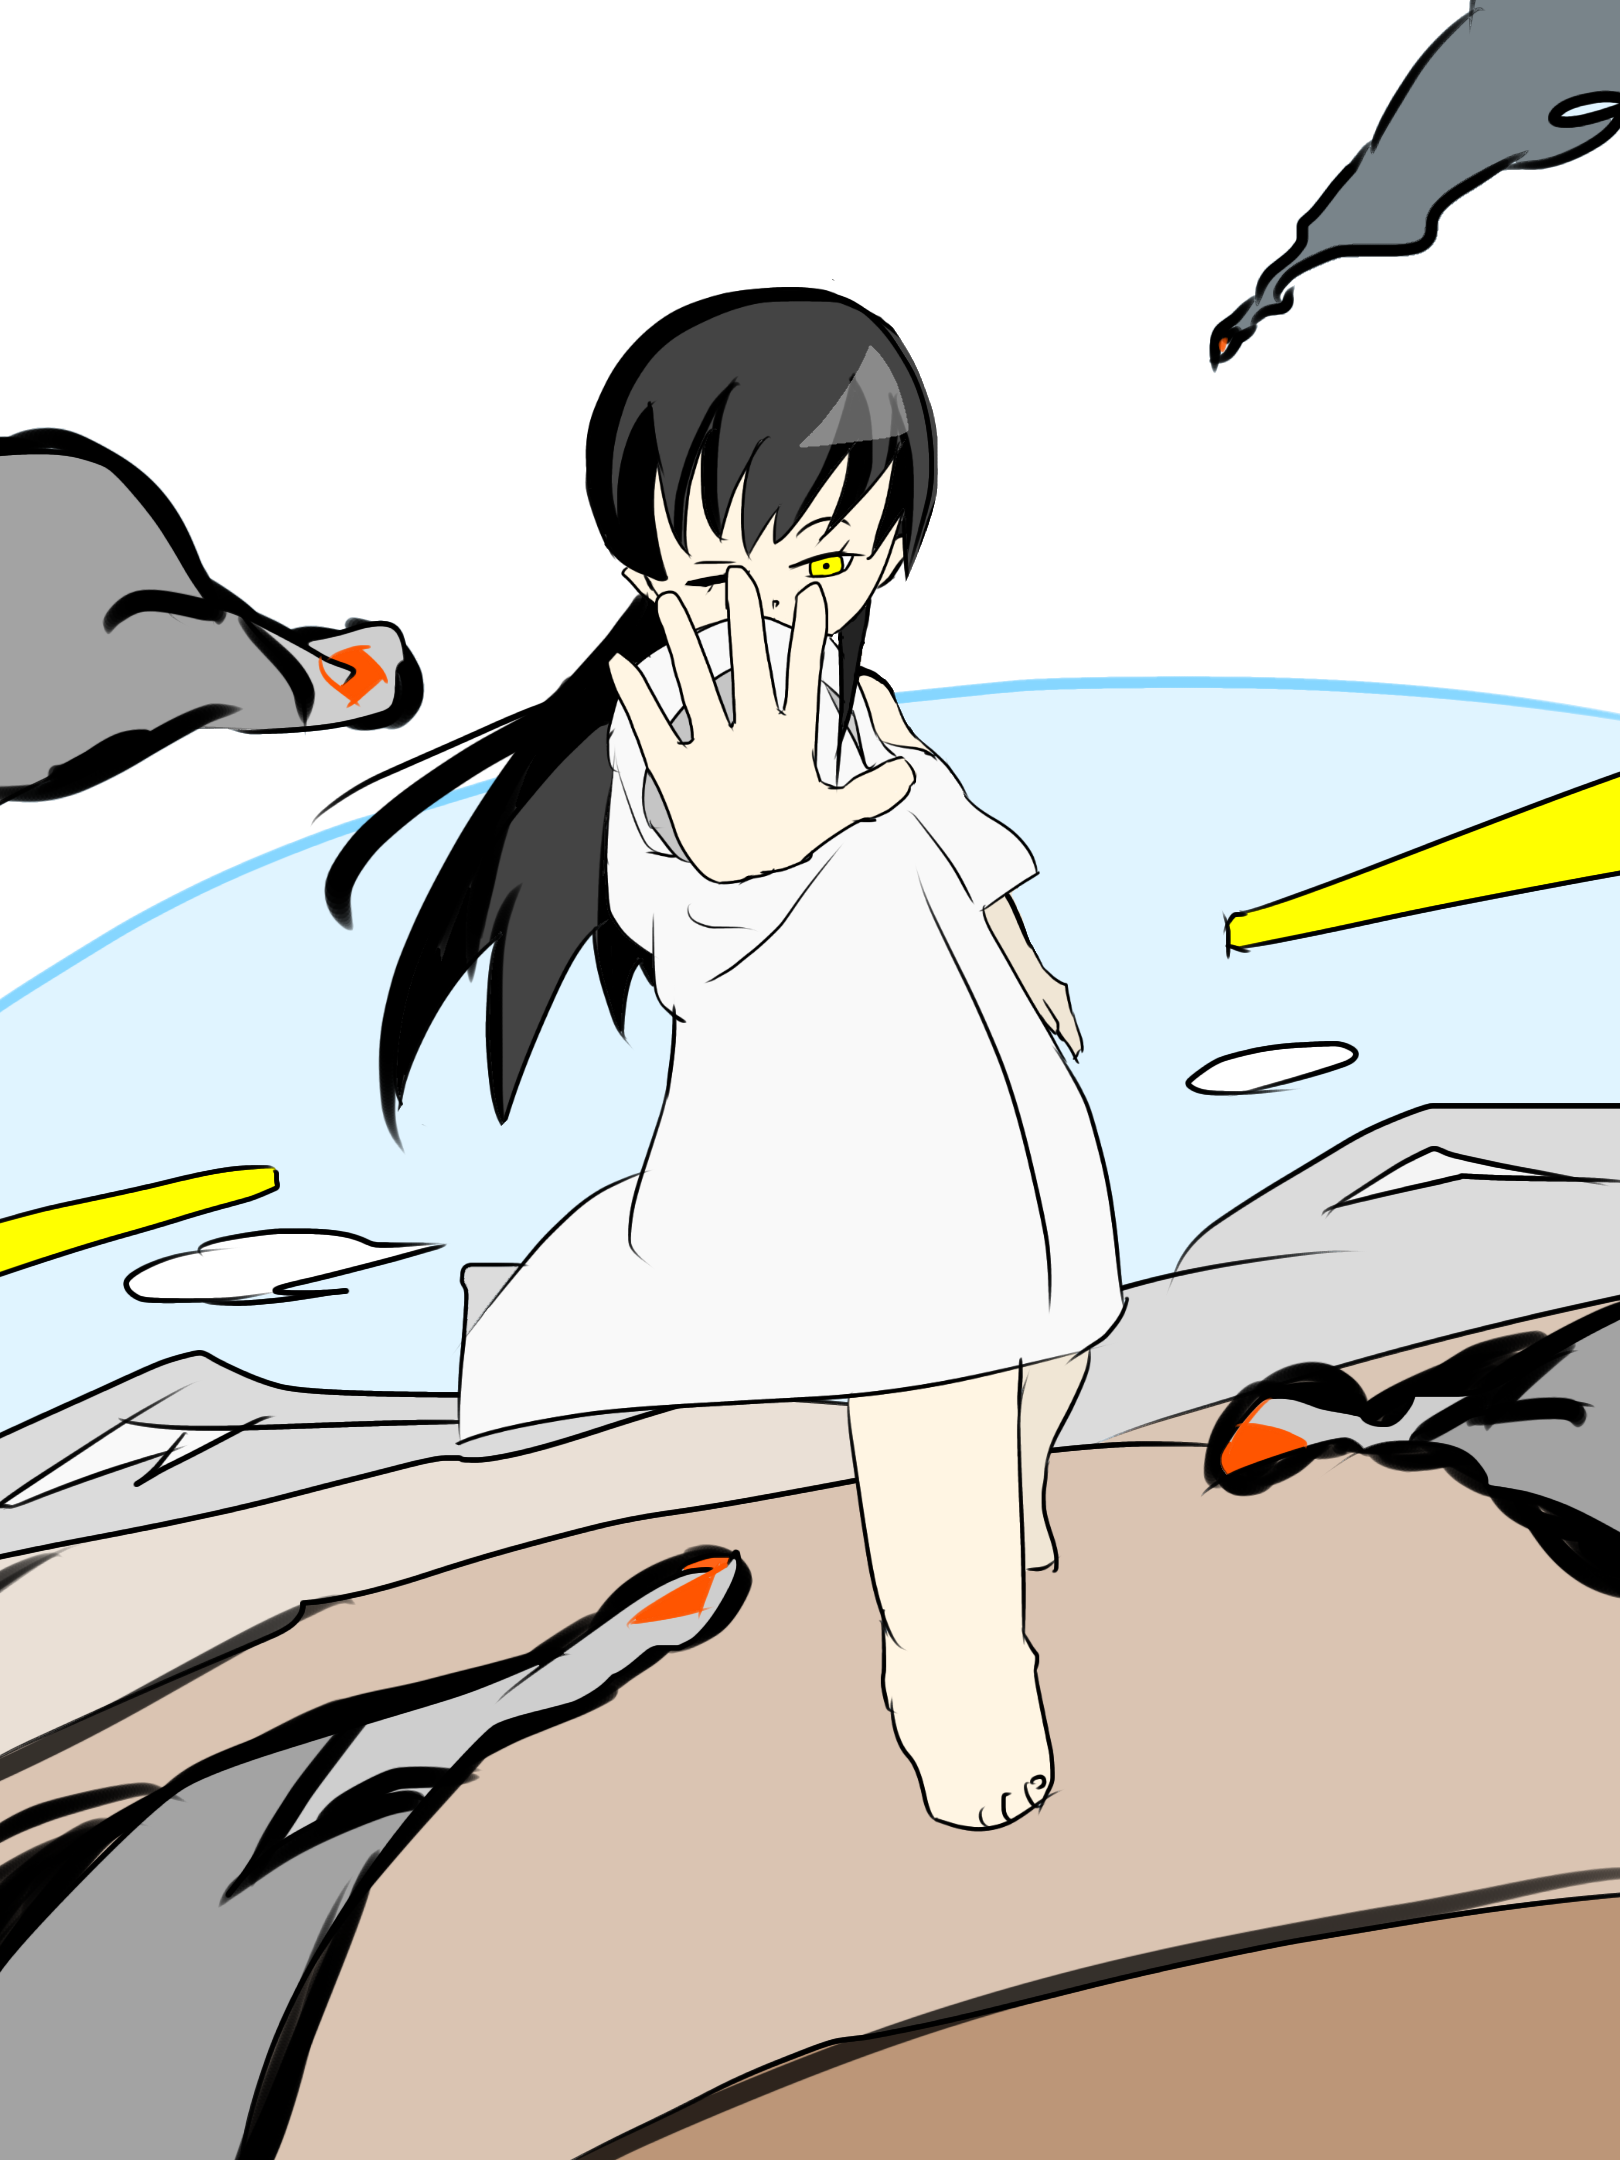
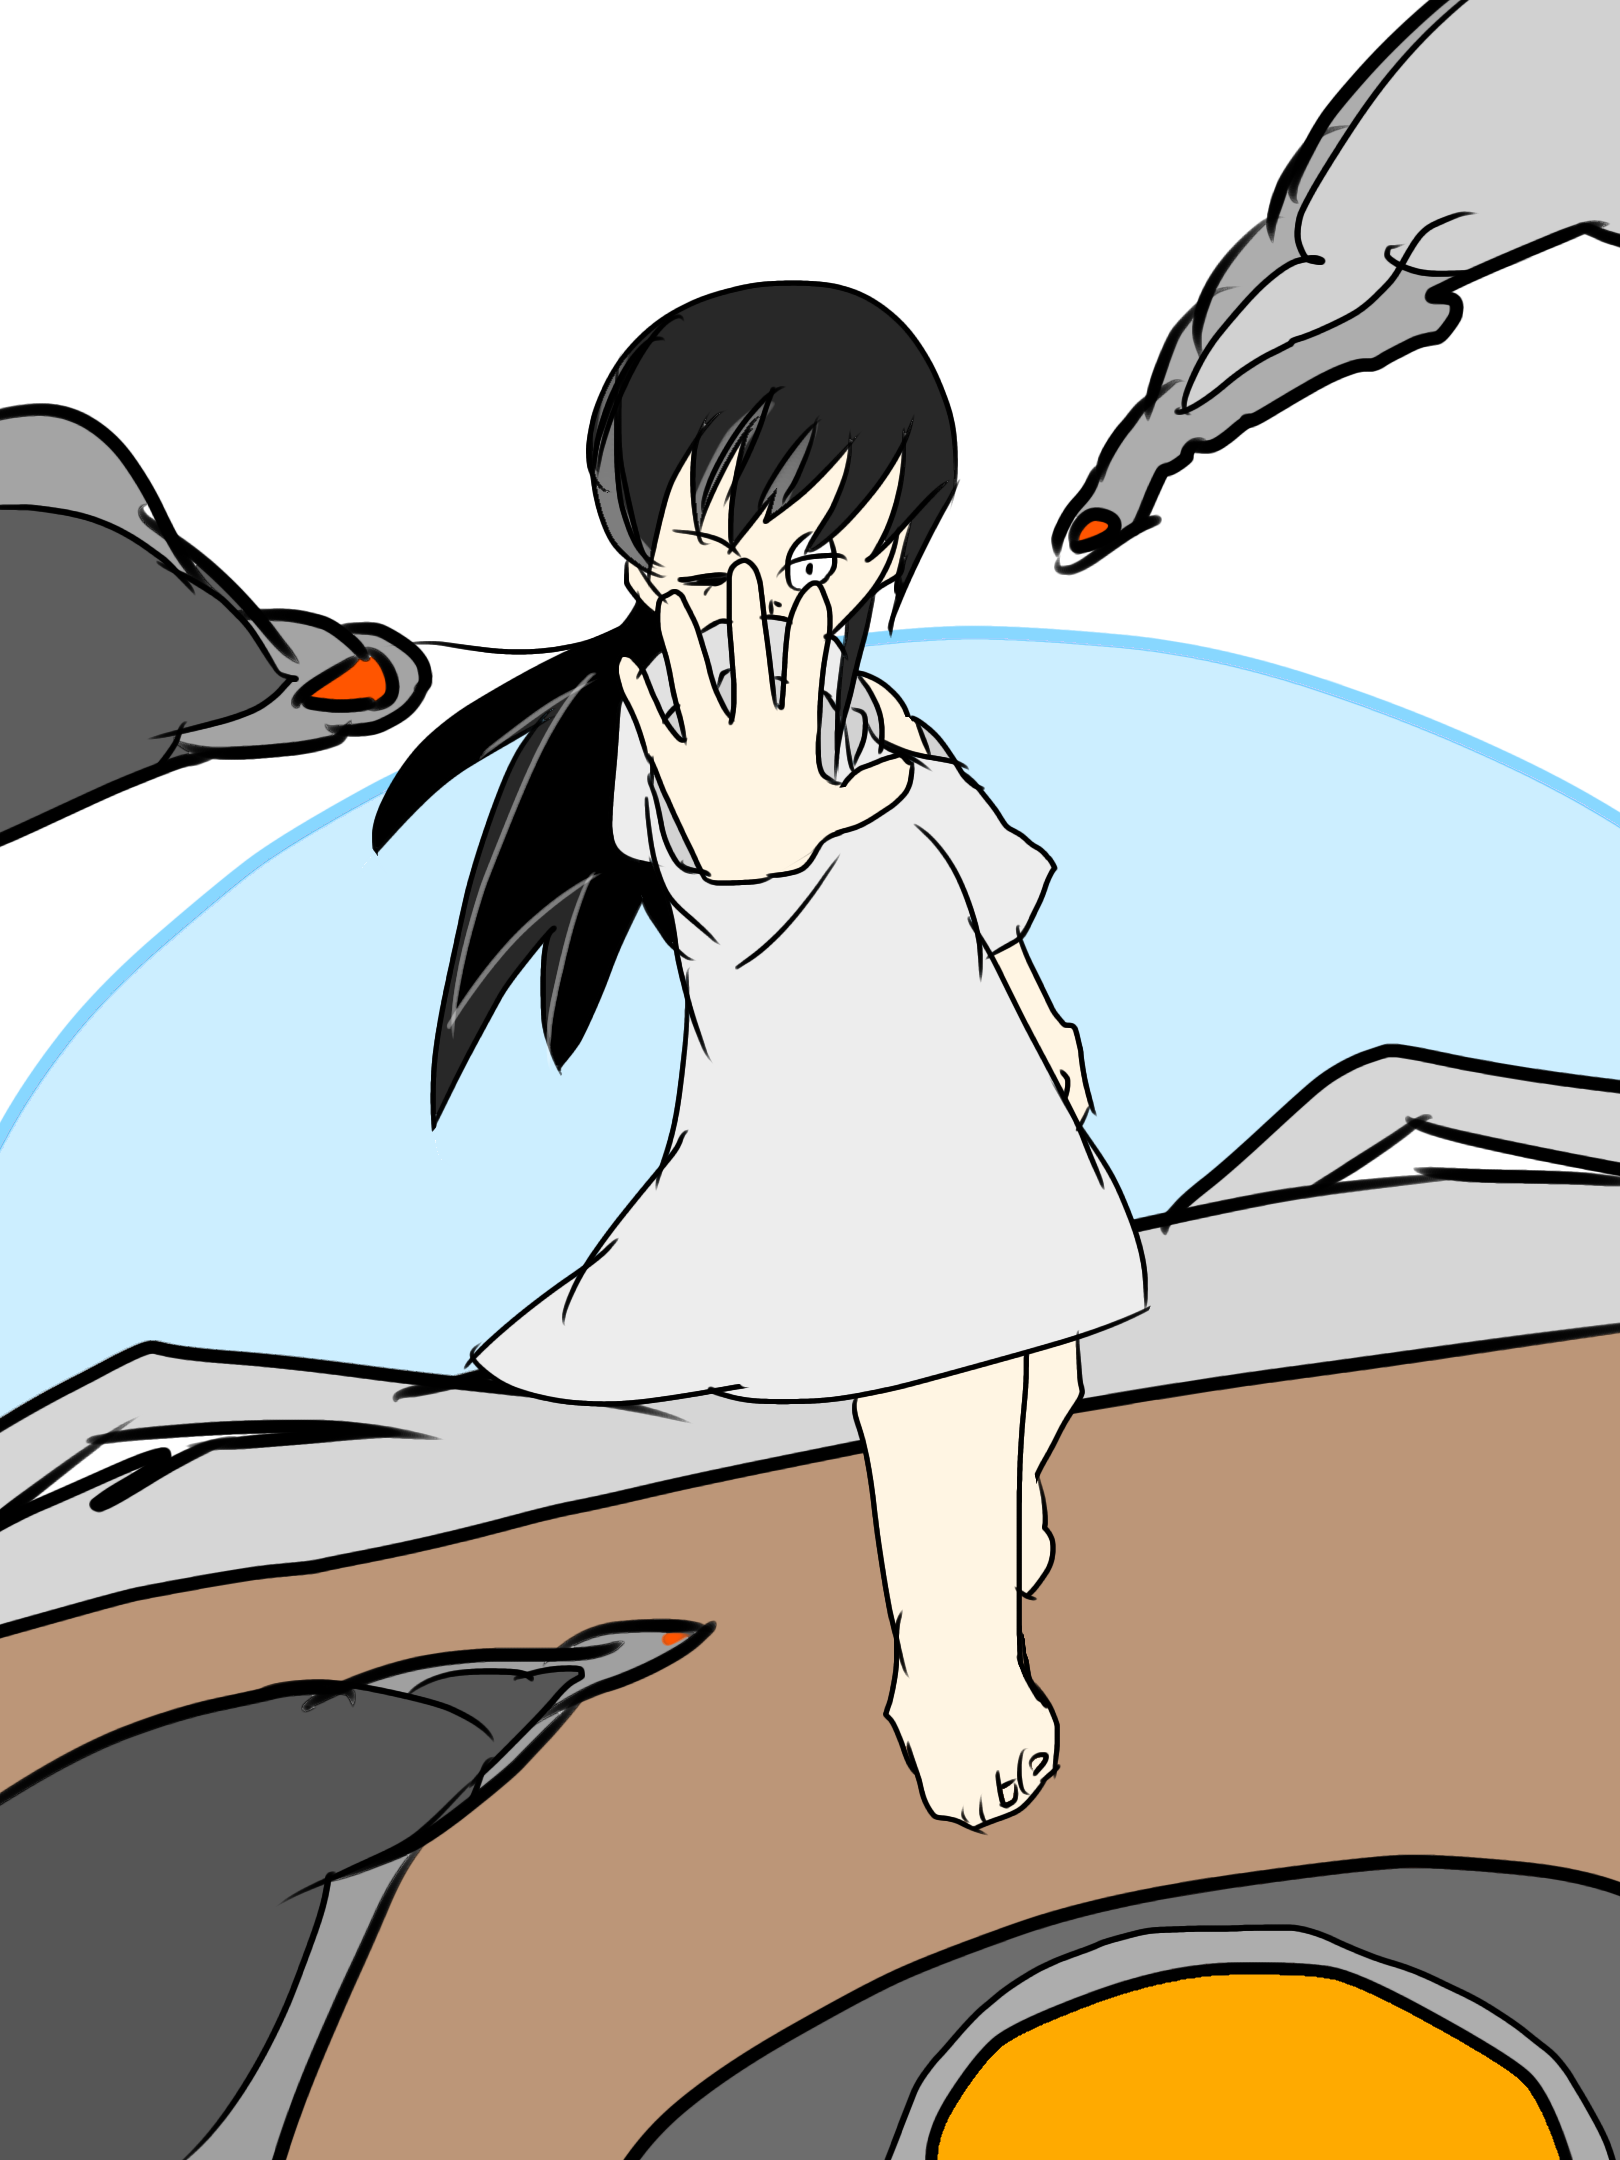
deploy: f6df77b2be0cf812a7171cacdd6e35514d4dd332

diff --git a/blog/post/2021/02/28/illust/index.html b/blog/post/2021/02/28/illust/index.html
@@ -1,22 +1,21 @@
 <!DOCTYPE html>
 <html>
 	<head>
-	<meta name="generator" content="Hugo 0.81.0" />
-		<title>syui.cf</title>
+		<title>イラスト描いてみた65 | syui.cf</title>
 		<meta http-equiv="Content-type" content="text/html; charset=utf-8" />
 		<meta name="author" content="syui" />
 		<meta name="copyright" content="© syui" />
 		<meta name="viewport" content="width=device-width, initial-scale=1, user-scalable=no" />
-		<meta name="description" content="syui" />
-		<meta name="keywords" content="syui" />
+		<meta name="description" content="syui blog" />
+		<meta name="keywords" content="syui, blog" />
 		<meta name="twitter:card" content="summary" />
 		<meta name="twitter:site" content="@syui__" />
 		<meta name="robots" content="all" />
 		<meta name="googlebot" content="all" />
-		<meta property="og:type" content="website" />
-		<meta property="og:title" content="syui.cf" />
+		<meta property="og:type" content="blog" />
+		<meta property="og:title" content="イラスト描いてみた65" />
 		<meta property="og:locale" content="ja_JP" />
-		<meta property="og:description" content="syui" />
+		<meta property="og:description" content="syui blog" />
 		<meta property="og:image" content="https://syui.cf/favicon.png" />
 		<meta property="og:url" content="https://syui.cf" />
 		<meta property="og:site_name" content="syui.cf" />
@@ -24,24 +23,17 @@
 		<link rel="shortcut icon" href="/favicon.ico">
 		<link rel="apple-touch-icon" href="/apple-touch-icon.png" />
 		<link rel="stylesheet" href="/bower_components/icomoon/css/icomoon.css" />
-		<link rel="stylesheet" href="/bower_components/jquery.terminal/css/jquery.terminal.css" />
 		<link rel="stylesheet" href="/css/terminal.css" />
-		<link rel="stylesheet" href="/css/terminal.mobile.css" />
 		<link rel="stylesheet" href="/css/style.css" />
+		<link rel="stylesheet" href="/css/blog.css" />
 		<link rel="stylesheet" href="/css/nav.css" />
 		<link rel="stylesheet" href="/css/svg.css" />
 		<link rel="stylesheet" href="/bower_components/font-awesome/css/all.min.css" />
-		<script src="https://syui.cf/bower_components/jquery/dist/jquery.min.js"></script>
-		<script src="https://syui.cf/bower_components/axios/dist/axios.min.js"></script>
-		<script src="https://syui.cf/bower_components/jquery.hotkeys/jquery.hotkeys.js"></script>
-		<script src="https://syui.cf/bower_components/jquery.hotkeys/hotkeys.js"></script>
-		<script src="https://syui.cf/bower_components/jquery.terminal/js/jquery.terminal.min.js"></script>
-		<script src="https://syui.cf/bower_components/jquery.terminal/js/jquery.mousewheel-min.js"></script>
-		<script src="https://syui.cf/js/terminal.quick.js"></script>
-		<script src="https://syui.cf/js/terminal.js"></script>
+		<link rel="stylesheet" href="/bower_components/highlightjs/styles/monokai.css" />
 		<app></app>
-		<script src="https://syui.cf/build/bundle.js"></script>
-		<script src="https://syui.cf/js/analytics.js"></script>
+		<script src=/bower_components/highlightjs/highlight.pack.min.js></script><link rel=stylesheet href=/bower_components/highlightjs/styles/monokai.css><script>hljs.initHighlightingOnLoad();</script>
+		<script src="/js/analytics.js"></script>
+
 		<script type="application/ld+json">
 			{
 			  "@context": "http://schema.org",
@@ -50,7 +42,8 @@
 			  "url": "https://syui.cf/"
 			}
 		</script>
-
+		<script src="/bower_components/jquery/dist/jquery.min.js"></script>
+	        <script src="/js/highlight-prompt.js"></script>
 	</head>
 
 <nav class="navbar navbar-expand-lg navbar-light bg-light">
@@ -79,13 +72,13 @@
 
 
 
- 
-<body>
+
+<body onload="highlight_prompt()">
 
 	<div class="containerx">
 		<header id="header">
 		        
-			<div class="logo"> <a href="/" > <svg width="77pt" height="77pt" viewBox="0 0 512 512" class="likeButton" >
+			<div class="logo"> <a href="/blog"> <svg width="77pt" height="77pt" viewBox="0 0 512 512" class="likeButton" >
   <circle class="explosion" r="150" cx="250" cy="250"></circle>
   <g class="particleLayer">
     <circle fill="#ef454aba" cx="130" cy="126.5" r="12.5"/>
@@ -113,23 +106,7 @@
 			
 		</header>
 
-<div class="top-sns-header">
-	<a href="/sitemap/"><span class="icon-moon"></span></a>
-</div>
-<blockquote>
-	<p>
-	<div class="footer-link">
-		<a href="https://twitter.com/syui__" target="_blank"><i class="fab fa-twitter"></i></a>
-		<a href="https://github.com/syui/" target="_blank"><i class="fab fa-github"></i></a>
-		<a href="/index.xml" target="_blank"><i class="fas fa-rss"></i></a>
-	</div>
-	</p>
-</blockquote>
-
-
-<div class="content-top">
-
-	<div class="google-ads">
+<div class="google-ads">
 	<script async src="https://pagead2.googlesyndication.com/pagead/js/adsbygoogle.js"></script>
 	<ins class="adsbygoogle"
 						style="display:block"
@@ -142,51 +119,43 @@
 	</script>
 </div>
 
+       			<article>
+       			 	<div class="content">
+													<h2>イラスト描いてみた65</h2>
+													<div class="post-time-date">2021/02/28</div>
+       			 		<p><img src="/img/yui_65.png" alt=""></p>
+<p>こういう構図で一度描いてみたいなあと思ってたやつ描きました。輪っかが体の周りぐるっとしてる感じのやつ。</p>
+<p>背景は色々考えてみて、結局、そこまで描けるものもないし、ネタもないしで、宇宙好きなので、いつも通り。でも個人的には気に入ってる。</p>
 
- <div id="blog-archives" class="category">
-	<ul class="cp_list">
-	 
-	 <li>
-		<a href="https://syui.cf/blog/post/2021/02/28/illust/">イラスト描いてみた65</a>
-	 </li>
-	 
-	 <li>
-		<a href="https://syui.cf/blog/post/2021/02/27/rakuten/">楽天モバイルをオススメする理由</a>
-	 </li>
-	 
-	 <li>
-		<a href="https://syui.cf/blog/post/2021/02/26/illust/">skebとfanbox(pixiv)でidを取ってみた</a>
-	 </li>
-	 
-	 <li>
-		<a href="https://syui.cf/blog/post/2021/02/25/pokemas/">ポケマス、注目の1.5周年でやるべきこと</a>
-	 </li>
-	 
-	 <li>
-		<a href="https://syui.cf/blog/post/2021/02/21/illust/">イラストを描いてみた62,63</a>
-	 </li>
-	 
-	 <li>
-		<a href="https://syui.cf/blog/post/2021/02/19/pogo/">ポケモンGo、カントーは赤緑どちらにすべきか</a>
-	 </li>
-	 
-	 <li>
-		<a href="https://syui.cf/blog/post/2021/02/18/pokemas/">ポケマス、クレセリア討伐</a>
-	 </li>
-	 
-	</ul>
- <p style="text-align:center;"><a href="/blog/"><i class="fas fa-bars"></i></a></p>
- </div>
-</div>
+       			 		
 
 
+<nav id="article-nav">
+    
+    <a href="https://syui.cf/blog/post/2021/02/27/rakuten/" id="article-nav-older" class="article-nav-link-wrap">
+<i class="fa fa-chevron-right"></i> 楽天モバイルをオススメする理由
+    </a>
+    
+
+		
+</nav>
+
+
+
+								
+								
+								    <strong>tag:</strong>
+								    <a href="https://syui.cf/tags/illust/">illust</a>
+					<div class="utterances">
+						<script src="https://utteranc.es/client.js" repo="syui/syui.github.io" issue-term="pathname" theme="github-light" crossorigin="anonymous" async> </script>
+					</div>
+       			 	</div>
+       			</article>
 		</div>
-
 		
 <script type="text/javascript" src="/js/svg.js"></script>
 <script src="/js/highlight-filename.js"></script>
 <footer id="footer">© syui</footer>
-
 
 	</body>
 </html>

diff --git a/tags/index.html b/tags/index.html
@@ -132,11 +132,11 @@
 				    <ul class="cp_list">
 					
 					<li>
-					    2021-02-27 <a href="https://syui.cf/tags/sim/">sim</a>
+					    2021-02-28 <a href="https://syui.cf/tags/illust/">illust</a>
 					</li>
 					
 					<li>
-					    2021-02-26 <a href="https://syui.cf/tags/illust/">illust</a>
+					    2021-02-27 <a href="https://syui.cf/tags/sim/">sim</a>
 					</li>
 					
 					<li>

diff --git a/blog/index.html b/blog/index.html
@@ -132,6 +132,10 @@
 				    <ul class="cp_list">
 					
 					<li>
+					    2021-02-28 <a href="https://syui.cf/blog/post/2021/02/28/illust/">イラスト描いてみた65</a>
+					</li>
+					
+					<li>
 					    2021-02-27 <a href="https://syui.cf/blog/post/2021/02/27/rakuten/">楽天モバイルをオススメする理由</a>
 					</li>
 					

diff --git a/tags/illust/index.html b/tags/illust/index.html
@@ -132,6 +132,10 @@
 				    <ul class="cp_list">
 					
 					<li>
+					    2021-02-28 <a href="https://syui.cf/blog/post/2021/02/28/illust/">イラスト描いてみた65</a>
+					</li>
+					
+					<li>
 					    2021-02-26 <a href="https://syui.cf/blog/post/2021/02/26/illust/">skebとfanbox(pixiv)でidを取ってみた</a>
 					</li>
 					
